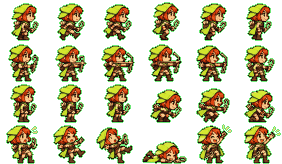
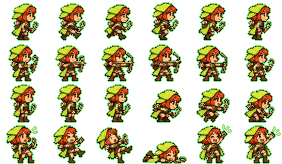
0.2.11: 걷기·달리기 끊김과 튐 수정
- 애니메이션 프레임을 누적 위상으로 계산(속도 변화 때 프레임 건너뜀·역행 제거), 몬스터 이동도 동일
- 보폭에 맞춘 1pt 바운스
- 행군 중 점프 빈도 14~26초 간격·높이 11pt로 완화
- 걷기 프레임을 몸통 중심으로 정렬(좌우 흔들림 ≤0.8px)

diff --git a/Sources/Strip/StripScene.swift b/Sources/Strip/StripScene.swift
@@ -817,6 +817,8 @@ final class HeroActor {
     private var hovered = false
     private var heightPx = 36
     private var downSince = -1.0
+    private var walkPhase = 0.0
+    private var stride: CGFloat = 0
 
     init(heroClass: HeroClass, index: Int) {
         self.heroClass = heroClass
@@ -842,7 +844,7 @@ final class HeroActor {
         nameLabel.position = CGPoint(x: 0, y: CGFloat(heightPx) * PixelArt.scale + 11)
         nameLabel.alpha = 0
         root.addChild(nameLabel)
-        nextJump = Double.random(in: 2...5) + Double(index)
+        nextJump = Double.random(in: 10...20) + Double(index) * 4
     }
 
     func resetTrackers() { seenAttack = -10; seenSkill = -10; seenHit = -10 }
@@ -931,10 +933,11 @@ final class HeroActor {
         // Random hops while marching (and on demand via hop()).
         if moving && alive && clock > nextJump {
             jumpStart = clock
-            nextJump = clock + Double.random(in: 3...7)
+            nextJump = clock + Double.random(in: 14...26)   // an occasional happy hop, not constant bouncing
         }
         let jt = clock - jumpStart
         if alive { downSince = -1 }
+        stride = 0
 
         if !alive {
             anim = "down"; frames = sheet.frames(anim)
@@ -952,12 +955,16 @@ final class HeroActor {
             frameIndex = jt < 0.07 ? 0 : jt < 0.42 ? 1 : 2
             if jt >= 0.07 && jt < 0.45 {
                 let f = (jt - 0.07) / 0.38
-                lift = CGFloat(sin(f * .pi)) * 15
+                lift = CGFloat(sin(f * .pi)) * 11
             }
         } else if victory || clock < waveUntil {
             anim = "victory"; frames = sheet.frames(anim); frameIndex = Int(clock * 5)
         } else if moving {
-            anim = "walk"; frames = sheet.frames(anim); frameIndex = Int(clock * Double(7 + speed * 0.09))
+            anim = "walk"; frames = sheet.frames(anim)
+            walkPhase += dt * Double(6 + speed * 0.07)          // frames per second, accumulated → never skips back
+            frameIndex = Int(walkPhase)
+            // Two footfalls per 6-frame cycle: a soft 1pt bounce on each stride smooths the AI frames.
+            stride = CGFloat(abs(sin(walkPhase / Double(max(1, frames.count)) * 2 * .pi))) * 1.0
         } else {
             anim = "idle"; frames = sheet.frames(anim)
             let pingPong = [0, 1, 2, 1]
@@ -982,7 +989,7 @@ final class HeroActor {
         FlashShader.set(sprite, amount: flashing ? 0.85 : 0, color: flashColor)
 
         root.position = CGPoint(x: x.rounded(toPixel: 0.5), y: groundY)
-        sprite.position = CGPoint(x: 0, y: lift.rounded(toPixel: 0.5))
+        sprite.position = CGPoint(x: 0, y: (lift + stride).rounded(toPixel: 0.5))
         shadow.setScale(1 - lift / 40)
         shadow.position = CGPoint(x: 0, y: 1)
         bar.node.position.y = CGFloat(heightPx) * PixelArt.scale + 5 + lift
@@ -1016,6 +1023,8 @@ final class MonsterActor {
         didSet { if dying { deadStart = lastClock } }
     }
     private var lastClock = 0.0
+    private var movePhase = 0.0
+    private var lastMoveClock = 0.0
     private var standOff: CGFloat = 0
 
     let variant: MonsterVariant
@@ -1095,6 +1104,8 @@ final class MonsterActor {
     func flash(color: NSColor, until t: Double) { flashColor = color; flashUntil = t }
 
     func update(clock: Double, realClock: Double, engineX ex: CGFloat, groundY: CGFloat, hpFraction: Double) {
+        defer { lastMoveClock = clock }
+        if lastMoveClock == 0 { lastMoveClock = clock }
         lastClock = clock
         engineX = Double(ex)
         guard let sheet else { return }
@@ -1113,7 +1124,9 @@ final class MonsterActor {
             idx = min(frames.count - 1, Int((clock - attackStart) * 12))
             drawX -= [0, 4, 8, 3][min(3, idx)]
         } else {
-            frames = sheet.frames("move"); idx = Int(clock * (moving ? 8 : 4))
+            frames = sheet.frames("move")
+            movePhase += (clock - lastMoveClock) * (moving ? 8 : 4)
+            idx = Int(movePhase)
         }
         let tex = frames[idx.wrapped(frames.count)]
         if sprite.texture !== tex {

diff --git a/scripts/art/process.py b/scripts/art/process.py
@@ -149,6 +149,15 @@ def anchor_x(a):
     return float(np.median(xs[lower]))
 
 
+def torso_x(a):
+    """Mean column of the upper-middle body (below the head, above the legs)."""
+    op = a[..., 3] > 0
+    ys, xs = np.nonzero(op)
+    top, h = ys.min(), ys.max() - ys.min()
+    band = (ys > top + h * 0.35) & (ys < top + h * 0.65)
+    return float(xs[band].mean()) if band.any() else float(xs.mean())
+
+
 def process_sheet(key):
     rows, cols, target_h, anims = layout(key)
     img, fg = load_rgba(RAW / f"{key}.png")
@@ -170,6 +179,13 @@ def process_sheet(key):
 
     # common cell: every frame bottom-aligned, anchor column aligned
     ax = [anchor_x(fr) for fr in frames]
+    if anims and "walk" in anims:
+        # Walk cycles: align on the torso instead of the feet so the body doesn't wobble sideways between frames.
+        walk = list(anims["walk"])
+        torso = [torso_x(frames[i]) for i in walk]
+        base = float(np.median([t - a for t, a in zip(torso, (ax[i] for i in walk))]))
+        for i, tx in zip(walk, torso):
+            ax[i] = tx - base
     left = max(int(np.ceil(a)) for a in ax) + 1
     right = max(fr.shape[1] - int(np.floor(a)) for fr, a in zip(frames, ax)) + 1
     cell_w = left + right

diff --git a/STATUS.md b/STATUS.md
@@ -50,6 +50,11 @@
   - 공증 빌드가 멈추는 원인을 진단했다: macOS 앱 데이터 보호 동의 창이 응답을 기다리고 있다.
 - **0.2.9**: 앱 아이콘을 새로 만들었다(골무 투구 기사 픽셀 아트, Apple 그리드 824/1024, 16~1024 전 크기, `docs/appicon.png`). 원정 본부 창 크기를 조절할 수 있다(최소 860×560, 크기·위치 기억, 작으면 스크롤, 도감 칸 수 자동).
 - **0.2.10**: 띠 크기 조절. 메뉴의 "띠 크기"에서 50·67·75·100·125% 버튼이나 슬라이더(50~150%)로 바꾼다. 전투 장면(SpriteKit이 920×100 장면을 그대로 확대·축소), HUD, 창 크기, 클릭을 받는 영역이 함께 바뀐다. 크기는 저장된다.
+- **0.2.11**: 걷기·달리기 동작의 끊김과 튐을 고쳤다.
+  - 애니메이션 프레임 번호를 누적 위상으로 계산해, 속도가 바뀔 때 프레임이 건너뛰거나 되돌아가지 않게 했다. 몬스터도 같다.
+  - 보폭에 맞춰 1pt씩 살짝 튀게 했다.
+  - 달리다가 하는 점프를 3~7초에 한 번에서 14~26초에 한 번으로 줄이고, 높이도 15pt에서 11pt로 낮췄다.
+  - 걷기 프레임을 발이 아니라 몸통 기준으로 정렬해 좌우 흔들림을 1.7px에서 0.8px 이하로 줄였다.
 - **테스트** 23개(기존 6개 + 도감·변종, 희귀 손님 스폰, 심층 층 기록, 이사, 예전 세이브 호환)(전투 진행, 보스 처치·지역 해금, 오프라인 상한·속도, 가방 가득 참, 등급 스케일, 장착·일괄 판매): 모두 통과.
 - **docs/screenshot.png**: 앱의 `--snapshot` 모드로 실제 SwiftUI 화면(띠·메뉴·본부)을 정해진 게임 상태로 렌더링한 합성 이미지.
 
